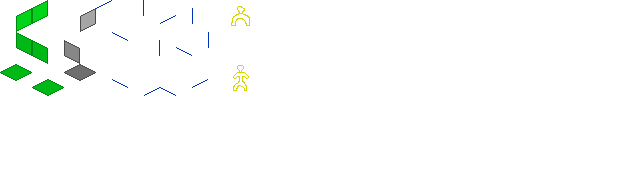
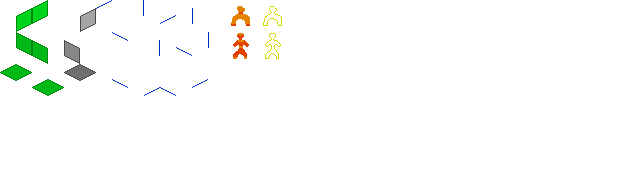
Displaying outlines onto the map for things that might be behind walls

diff --git a/core/src/com/marcin/panklex/screens/ScreenGame.kt b/core/src/com/marcin/panklex/screens/ScreenGame.kt
@@ -68,48 +68,48 @@ class ScreenGame(name : String, val game : PanKlexGame) : BaseScreen(name, game)
         // hud
 
         leftArrowDirectionButton.addListener(object : ClickListener()
-                                             {
-                                                 override fun clicked(event : InputEvent?, x : Float, y : Float)
-                                                 {
-                                                     val direction = when (map.direction)
-                                                     {
-                                                         MapDirection.Up    -> MapDirection.Left
-                                                         MapDirection.Left  -> MapDirection.Down
-                                                         MapDirection.Down  -> MapDirection.Right
-                                                         MapDirection.Right -> MapDirection.Up
-                                                     }
-                                                     changeDirection(direction)
-                                                 }
-                                             })
+        {
+            override fun clicked(event : InputEvent?, x : Float, y : Float)
+            {
+                val direction = when (map.direction)
+                {
+                    MapDirection.Up    -> MapDirection.Left
+                    MapDirection.Left  -> MapDirection.Down
+                    MapDirection.Down  -> MapDirection.Right
+                    MapDirection.Right -> MapDirection.Up
+                }
+                changeDirection(direction)
+            }
+        })
         rightArrowDirectionButton.addListener(object : ClickListener()
-                                              {
-                                                  override fun clicked(event : InputEvent?, x : Float, y : Float)
-                                                  {
-                                                      val direction = when (map.direction)
-                                                      {
-                                                          MapDirection.Up    -> MapDirection.Right
-                                                          MapDirection.Right -> MapDirection.Down
-                                                          MapDirection.Down  -> MapDirection.Left
-                                                          MapDirection.Left  -> MapDirection.Up
-                                                      }
-                                                      changeDirection(direction)
-                                                  }
-                                              })
+        {
+            override fun clicked(event : InputEvent?, x : Float, y : Float)
+            {
+                val direction = when (map.direction)
+                {
+                    MapDirection.Up    -> MapDirection.Right
+                    MapDirection.Right -> MapDirection.Down
+                    MapDirection.Down  -> MapDirection.Left
+                    MapDirection.Left  -> MapDirection.Up
+                }
+                changeDirection(direction)
+            }
+        })
 
         leftArrowPositionButton.addListener(object : ClickListener()
-                                            {
-                                                override fun clicked(event : InputEvent?, x : Float, y : Float)
-                                                {
-                                                    changePosition(currentPosition - 1)
-                                                }
-                                            })
+        {
+            override fun clicked(event : InputEvent?, x : Float, y : Float)
+            {
+                changePosition(currentPosition - 1)
+            }
+        })
         rightArrowPositionButton.addListener(object : ClickListener()
-                                             {
-                                                 override fun clicked(event : InputEvent?, x : Float, y : Float)
-                                                 {
-                                                     changePosition(currentPosition + 1)
-                                                 }
-                                             })
+        {
+            override fun clicked(event : InputEvent?, x : Float, y : Float)
+            {
+                changePosition(currentPosition + 1)
+            }
+        })
 
         val table = Table()
         table.top().setFillParent(true)
@@ -132,10 +132,10 @@ class ScreenGame(name : String, val game : PanKlexGame) : BaseScreen(name, game)
         changePosition(0)
 
         gameCamera.position.set(
-                (map.tileLengthHalf * map.width).toFloat(),
-                (map.tileLengthQuarter * map.height).toFloat(),
-                0f
-                               )
+            (map.tileLengthHalf * map.width).toFloat(),
+            (map.tileLengthQuarter * map.height).toFloat(),
+            0f
+        )
         gameCamera.zoom = 0.25f
     }
 
@@ -171,12 +171,12 @@ class ScreenGame(name : String, val game : PanKlexGame) : BaseScreen(name, game)
         screenTouchPosition.set(screenX.toFloat(), screenY.toFloat())
         worldTouchPosition = gameViewport.unproject(screenTouchPosition)
         mapTouchPosition.x =
-                floor((0.5f * worldTouchPosition.x - worldTouchPosition.y + map.tileLengthQuarter) / map.tileLengthHalf) + (currentFloor + 1)
+            floor((0.5f * worldTouchPosition.x - worldTouchPosition.y + map.tileLengthQuarter) / map.tileLengthHalf) + (currentFloor + 1)
         mapTouchPosition.y =
-                floor((0.5f * worldTouchPosition.x + worldTouchPosition.y - map.tileLengthQuarter) / map.tileLengthHalf) - (currentFloor + 1)
+            floor((0.5f * worldTouchPosition.x + worldTouchPosition.y - map.tileLengthQuarter) / map.tileLengthHalf) - (currentFloor + 1)
         mapTouchPosition.z = currentFloor.toFloat() + 1
         isTouchInMap =
-                (mapTouchPosition.x.toInt() in 0 until level.width && mapTouchPosition.y.toInt() in 0 until level.height)
+            (mapTouchPosition.x.toInt() in 0 until level.width && mapTouchPosition.y.toInt() in 0 until level.height)
     }
 
     fun screenLoop()
@@ -208,7 +208,7 @@ class ScreenGame(name : String, val game : PanKlexGame) : BaseScreen(name, game)
         for (k in 0 until map.maxFloors)
         {
             map.renderers[k].setView(gameCamera)
-            map.renderers[k].klexRender(32,16)
+            map.renderers[k].klexRender(32, 16)
         }
         stage.draw()
     }
@@ -259,7 +259,7 @@ class ScreenGame(name : String, val game : PanKlexGame) : BaseScreen(name, game)
 
         updateTouch(screenX, screenY)
 
-        map.info(mapTouchPosition)
+        //map.info(mapTouchPosition)
 
         return true
     }

diff --git a/core/src/com/marcin/panklex/KlexIsometricTiledMapRenderer.kt b/core/src/com/marcin/panklex/KlexIsometricTiledMapRenderer.kt
@@ -1,7 +1,9 @@
 package com.marcin.panklex
 
 import com.badlogic.gdx.graphics.Color
+import com.badlogic.gdx.graphics.Texture
 import com.badlogic.gdx.graphics.g2d.Batch
+import com.badlogic.gdx.graphics.g2d.TextureRegion
 import com.badlogic.gdx.maps.tiled.TiledMap
 import com.badlogic.gdx.maps.tiled.TiledMapTileLayer
 import com.badlogic.gdx.maps.tiled.renderers.BatchTiledMapRenderer
@@ -12,7 +14,8 @@ import com.badlogic.gdx.math.Vector3
 import kotlin.math.sqrt
 
 // i have no idea what im doing
-class KlexIsometricTiledMapRenderer(map : TiledMap, unitScale : Float, val floor : Int) : IsometricTiledMapRenderer(map, unitScale)
+class KlexIsometricTiledMapRenderer(map : TiledMap, unitScale : Float, val floor : Int, val entity : TextureRegion) :
+    IsometricTiledMapRenderer(map, unitScale)
 {
     private var isoTransform : Matrix4? = null
     private var invIsotransform : Matrix4? = null
@@ -75,7 +78,8 @@ class KlexIsometricTiledMapRenderer(map : TiledMap, unitScale : Float, val floor
                 {
                     if (layer.isVisible && layer is TiledMapTileLayer)
                     {
-                        val color = Color.toFloatBits(batchColor.r, batchColor.g, batchColor.b, batchColor.a * layer.opacity)
+                        val color =
+                            Color.toFloatBits(batchColor.r, batchColor.g, batchColor.b, batchColor.a * layer.opacity)
                         val x = col * halfTileWidth + row * halfTileWidth
                         // draw each layer higher than previous
                         val y = row * halfTileHeight - col * halfTileHeight + floor * tileHeight
@@ -186,6 +190,8 @@ class KlexIsometricTiledMapRenderer(map : TiledMap, unitScale : Float, val floor
                 }
             }
         }
+
+        batch.draw(entity, 32f * 3 + 16f, 16f * 1 + 8f)
 
         endRender()
     }

diff --git a/core/src/com/marcin/panklex/KlexTiles.kt b/core/src/com/marcin/panklex/KlexTiles.kt
@@ -5,6 +5,7 @@ import com.badlogic.gdx.assets.AssetManager
 import com.badlogic.gdx.graphics.GL20
 import com.badlogic.gdx.graphics.Pixmap
 import com.badlogic.gdx.graphics.Texture
+import com.badlogic.gdx.graphics.g2d.Sprite
 import com.badlogic.gdx.graphics.g2d.SpriteBatch
 import com.badlogic.gdx.graphics.g2d.TextureRegion
 import com.badlogic.gdx.graphics.glutils.FrameBuffer
@@ -22,7 +23,10 @@ class KlexTiles(assetManager : AssetManager)
     // entity tiles
 
     val smallEntityTile = glue(tileset[0][7])
-    val bigEntityTile = glue(tileset[2][7])
+    val bigEntityTile = glue(tileset[1][7])
+
+    val smallEntityOutline = tileset[0][8]
+    val bigEntityOutline = tileset[1][8]
 
     // select tiles
 

diff --git a/core/src/com/marcin/panklex/KlexMap.kt b/core/src/com/marcin/panklex/KlexMap.kt
@@ -36,7 +36,7 @@ class KlexMap(val room : KlexRoom, val tiles : KlexTiles)
         for (k in 0 until maxFloors)
         {
             maps.add(TiledMap())
-            renderers.add(KlexIsometricTiledMapRenderer(maps[k], 1f, k))
+            renderers.add(KlexIsometricTiledMapRenderer(maps[k], 1f, k,tiles.bigEntityOutline))
 
             val layers = mutableListOf<TiledMapTileLayer>()
 
